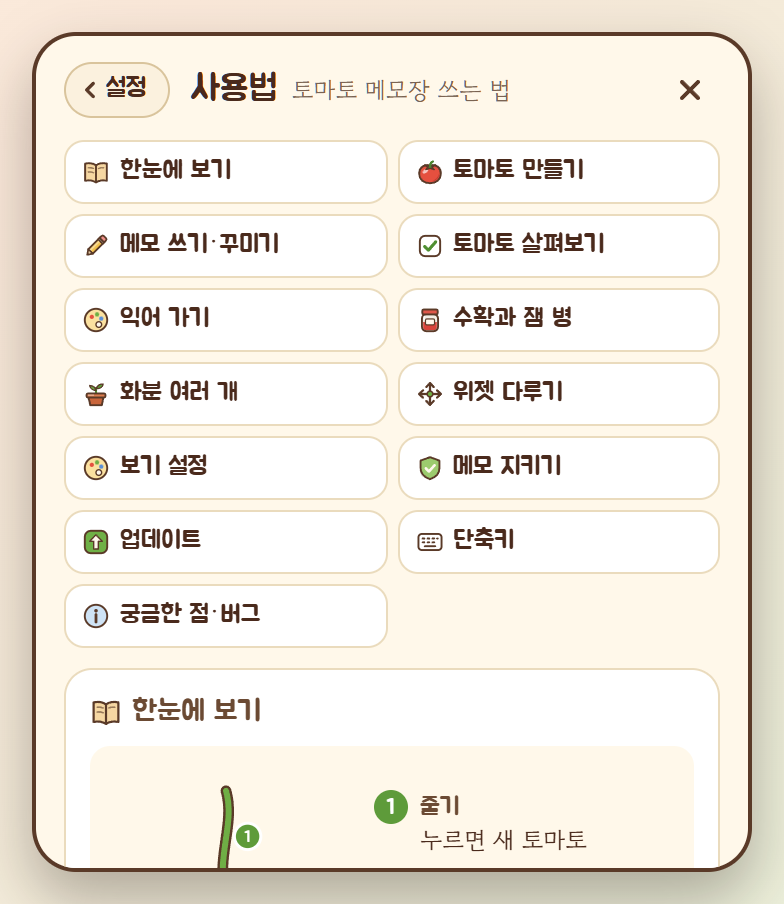
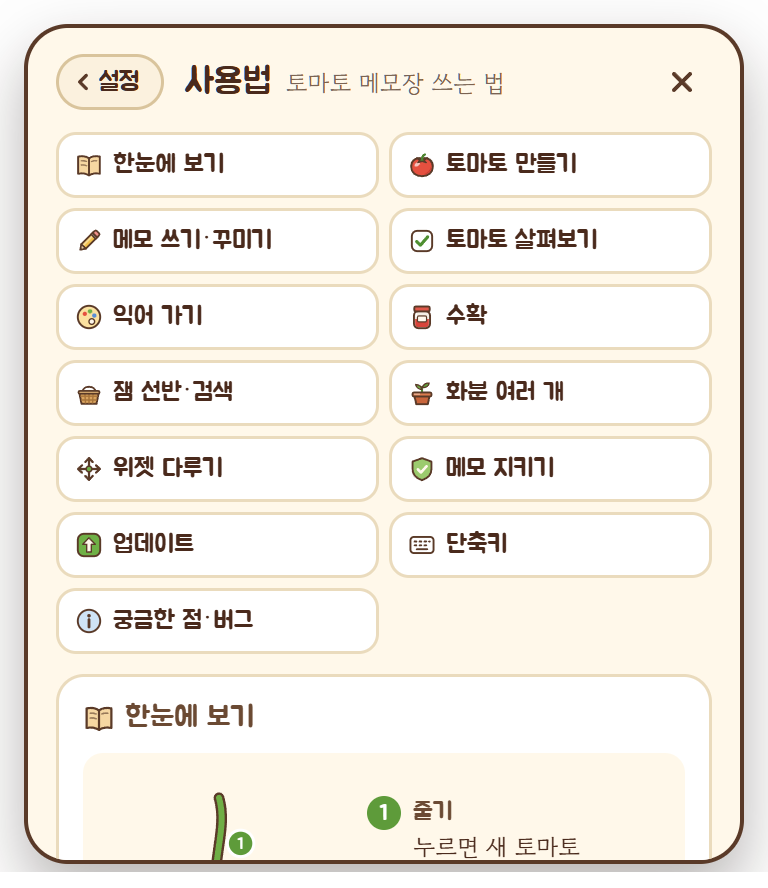
README 0.9.12 에 맞추기: 메모지 고정(압정)·글자 크기·메모지 크기, 미리보기 이름표, 화분 순서 바꾸기, 꽉 찬 화분이면 다른 화분에 심기 (새 사진 3장, 메모지·설정·사용법 사진 새로 찍음)

Changed region(s): [[0.0, 0.0, 1.0, 1.0]]

diff --git a/README.md b/README.md
@@ -7,7 +7,7 @@
 다 끝낸 메모는 **수확**해서 이달의 **잼 병**에 담고, 잼 병은 1년짜리 **잼 선반**에 차곡차곡 쌓여요.
 
 <p align="center">
-  <img src="images/desktop.webp" width="760" alt="바탕화면 오른쪽 아래, 작업표시줄 바로 위에 토마토 다섯 개가 달린 화분 위젯과 잼 병이 놓여 있는 모습">
+  <img src="images/desktop.webp" width="760" alt="바탕화면 오른쪽 아래, 작업 표시줄 바로 위에 토마토 다섯 개가 달린 화분 위젯과 잼 병이 놓여 있는 모습">
 </p>
 
 ## 📸 둘러보기
@@ -24,13 +24,24 @@
 왼쪽 면엔 만든 날짜, 익은 정도, 할 일 진행도가 보여요.
 
 <p align="center">
-  <img src="images/letter.png" width="760" alt="토마토 모양 메모지: 왼쪽 면에 만든 날짜·익은 단계·할 일 2/4·달린 화분, 오른쪽 면에 제목과 체크리스트 본문">
+  <img src="images/letter.png" width="760" alt="위젯 옆에 펼쳐진 토마토 모양 메모지: 오른쪽 위 압정이 초록으로 꽂혀 고정된 상태, 본문에 크게 쓴 '토요일'·'일요일', 형광펜, 글머리 기호, 빨간 글씨">
 </p>
 
-글자를 드래그하면 **꾸미기 도구줄**이 떠요. 체크리스트를 채우면 토마토에 진행도가 보이고, 다 하면 초록으로 바뀌어요.
+- **X 옆 압정을 누르면 고정**돼요 (초록 동그라미). 바깥을 누르거나 다른 프로그램을 써도 닫히지 않아서, 바탕화면에 붙여 둔 포스트잇처럼 열어 둔 채로 일할 수 있어요. X 로 닫아요.
+- 글자를 드래그하면 **꾸미기 도구줄**이 떠요. 글자 크기(작게·중간·크게)도 여기서 바꿔요.
+- 한 줄에 더 많이 쓰고 싶으면 **설정 → 보기 → 메모지 크기**를 크게 해요. 글씨는 그대로, 메모지가 넓어져요.
+
+체크리스트를 채우면 토마토에 진행도가 보이고, 다 하면 초록으로 바뀌어요.
 
 <p align="center">
   <img src="images/deco.webp" width="760" alt="움직이는 사진: 글자를 드래그해 굵게·형광펜을 입히고, 체크리스트 네 개를 차례로 체크하자 토마토에 4/4가 표시되는 모습">
+</p>
+
+### 열지 않고 살짝 보기
+토마토에 마우스를 올리면 **미리보기 이름표**가 떠요. 서식과 줄바꿈이 메모지와 똑같아서, 열지 않고도 한눈에 보여요 (8줄까지).
+
+<p align="center">
+  <img src="images/preview.png" width="300" alt="'주말 계획' 토마토 옆에 뜬 미리보기 이름표: 메모지와 같은 글자 크기·형광펜·글머리 기호가 그대로 보이는 모습">
 </p>
 
 ### 날이 갈수록 익어요 · 화분 여러 개
@@ -43,6 +54,14 @@
   <tr>
     <td align="center"><b>익어 가기</b><br>만든 날부터 초록 → 노르스름 → 주황 → 빨강</td>
     <td align="center"><b>화분 넘기기</b><br>화분 위에서 마우스 휠을 굴려요</td>
+  </tr>
+  <tr>
+    <td align="center"><img src="images/reorder.png" width="210" alt="화분 메뉴의 '어느 화분으로 갈까요?' 목록: 화분 줄마다 오른쪽에 점 여섯 개 손잡이, 아래에 '끌어서 순서를 바꿀 수 있어요' 안내"></td>
+    <td align="center"><img src="images/full.png" width="210" alt="화분이 꽉 찼을 때 줄기를 누르자 뜬 안내: '화분이 꽉 찼어요'와 '‘공부’에 심기' 버튼"></td>
+  </tr>
+  <tr>
+    <td align="center"><b>화분 순서 바꾸기</b><br>화분 목록에서 줄을 끌어 옮겨요</td>
+    <td align="center"><b>꽉 차면 다른 화분에</b><br>자리가 있는 화분(없으면 새 화분)에 바로 심어요</td>
   </tr>
 </table>
 
@@ -69,7 +88,7 @@
     <td align="center"><b>잼 선반</b><br>1년치 잼 병이 달마다 쌓여요.</td>
   </tr>
   <tr>
-    <td align="center" width="50%"><img src="images/settings.png" alt="설정 화면: 보기 묶음의 크기 막대·글씨체·미리보기 이름표·움직임 건너뛰기"></td>
+    <td align="center" width="50%"><img src="images/settings.png" alt="설정 화면: 보기 묶음의 크기 막대·글씨체·메모지 크기·미리보기 이름표"></td>
     <td align="center" width="50%"><img src="images/guide.png" alt="사용법 화면: 한눈에 보기부터 궁금한 점·버그까지 13가지 목차"></td>
   </tr>
   <tr>
@@ -122,10 +141,11 @@
 
 | 하고 싶은 것 | 방법 |
 |---|---|
-| 새 메모 (토마토 달기) | **줄기 클릭** (물뿌리개로 물 주기). 위젯을 누른 뒤 `Ctrl+N` 도 돼요. 화분 하나에 **5개까지** (꽉 차면 먼저 수확) |
+| 새 메모 (토마토 달기) | **줄기 클릭** (물뿌리개로 물 주기). 위젯을 누른 뒤 `Ctrl+N` 도 돼요. 화분 하나에 **5개까지**. 꽉 차면 안내의 버튼으로 자리가 있는 다른 화분(없으면 새 화분)에 심어요 |
 | 메모 쓰기·보기 | 토마토 클릭 → 토마토 모양 **메모지** (맨 윗줄 제목, `Enter` 로 본문) |
-| 열지 않고 살짝 보기 | 토마토에 마우스를 잠깐 올리기 (미리보기 이름표) |
+| 열지 않고 살짝 보기 | 토마토에 마우스를 잠깐 올리기 (미리보기 이름표, 서식 그대로) |
 | 닫기 (자동 저장) | X 버튼, `Esc`, 또는 메모지 바깥 클릭. 아무것도 안 쓴 새 토마토는 닫으면 저절로 사라져요 |
+| 열어 둔 채로 쓰기 | 메모지 X 옆 **압정** → X 로만 닫혀요. 고정한 채 다른 토마토를 누르면 그 메모로 바뀌어요 |
 | 다 한 메모 | 메모지의 **수확**, 또는 **토마토를 끌어서 잼 병에 놓기** → 이달의 잼 병으로 (잠깐 뜨는 **되돌리기**로 취소) |
 | 버리기 | 메모지의 **버리기**. 줄기 토마토는 바로 버리고 **되돌리기**가 떠요. 잼 병 메모는 "버릴까요?"를 한 번 더 물어요 |
 | 이번 달 잼 병 보기 | 화분 옆 **잼 병 클릭** (왼쪽 위 **‹ 잼 선반** 을 누르면 1년치 선반) |
@@ -133,9 +153,10 @@
 | 잼 병 메모를 다시 줄기로 | **다시 심기** → 반창고를 붙이고 돌아와요 (화분이 여럿이면 어느 화분에 심을지 골라요) |
 | 화분 메뉴 | **화분 클릭** 또는 위젯 오른쪽 클릭: 새 토마토 · 잼 선반 보기 · 다른 화분으로 · 새 화분 · 이름 바꾸기 · 이 화분 치우기 · 위치 잠금 · 사용법 · 설정 |
 | 화분 넘기기 | 위젯 위에서 **마우스 휠** |
+| 화분 순서 바꾸기 | 화분 메뉴 → **다른 화분으로** 목록에서 줄을 끌기 |
 | 위젯 옮기기 | 화분을 누른 채 끌기 (모니터마다 자리를 기억해요). 헤매면 **설정 → 위젯 자리 → 처음 자리로** |
 | 바탕화면 보기 | `Win+D` 를 해도 위젯은 바탕화면에 남아 있어요 |
-| 크기 바꾸기 | **설정 → 보기**, 또는 위젯 위에서 `Ctrl+휠` |
+| 크기 바꾸기 | **설정 → 보기**, 또는 위젯 위에서 `Ctrl+휠`. 메모지만 크게: **설정 → 보기 → 메모지 크기** |
 | 숨기기 / 끄기 | 작업 표시줄 오른쪽 아래 **토마토 아이콘**: 클릭 = 숨기기/보이기, 오른쪽 클릭 = 설정 · 사용법 · 종료 |
 
 ### 🍅 익어 가는 토마토
@@ -149,7 +170,8 @@
 - 토마토마다 꼭지·열매자루 모양이 조금씩 달라요. 토마토가 많이 달리면 잎도 무성해져요.
 
 ### ✍ 메모지 꾸미기
-본문 글자를 드래그하면 도구줄이 떠요. **굵게** · *기울임* · 밑줄 · 취소선 · 형광펜 · 글자 색 · 글머리 기호 · ☑ 체크리스트 · 서식 지우기.
+본문 글자를 드래그하면 도구줄이 떠요. **굵게** · *기울임* · 밑줄 · 취소선 · 형광펜 · 글자 색 · 글자 크기(작게·중간·크게) · 글머리 기호 · ☑ 체크리스트 · 서식 지우기.
+큰 글자를 섞어도 공책 줄에 맞춰 써져요.
 체크리스트를 쓰면 토마토에 `2/5` 처럼 진행도가 보이고, 다 채우면 반짝여요.
 
 | 단축키 | |
@@ -168,6 +190,8 @@
 
 ### 🌿 화분 여러 개
 - 화분 메뉴의 **새 화분**으로 늘려요. 위젯 위에서 **마우스 휠**을 굴리거나 **다른 화분으로**에서 골라 넘어가요.
+- 순서는 **다른 화분으로** 목록에서 줄을 끌어 바꿔요 (줄 오른쪽 점 여섯 개 손잡이). 휠로 넘기는 순서도 같이 바뀌어요.
+- 화분이 꽉 찼을 때 줄기를 누르면, 자리가 있는 다음 화분에 심을지(없으면 새 화분) 버튼으로 물어봐요.
 - 토마토를 다른 화분으로 옮기려면 메모지 왼쪽의 **달린 화분** 버튼을 눌러요.
 - **이 화분 치우기**를 하면 달린 토마토도 함께 지워져요. 잼 병 메모는 그대로 남아요.
 
